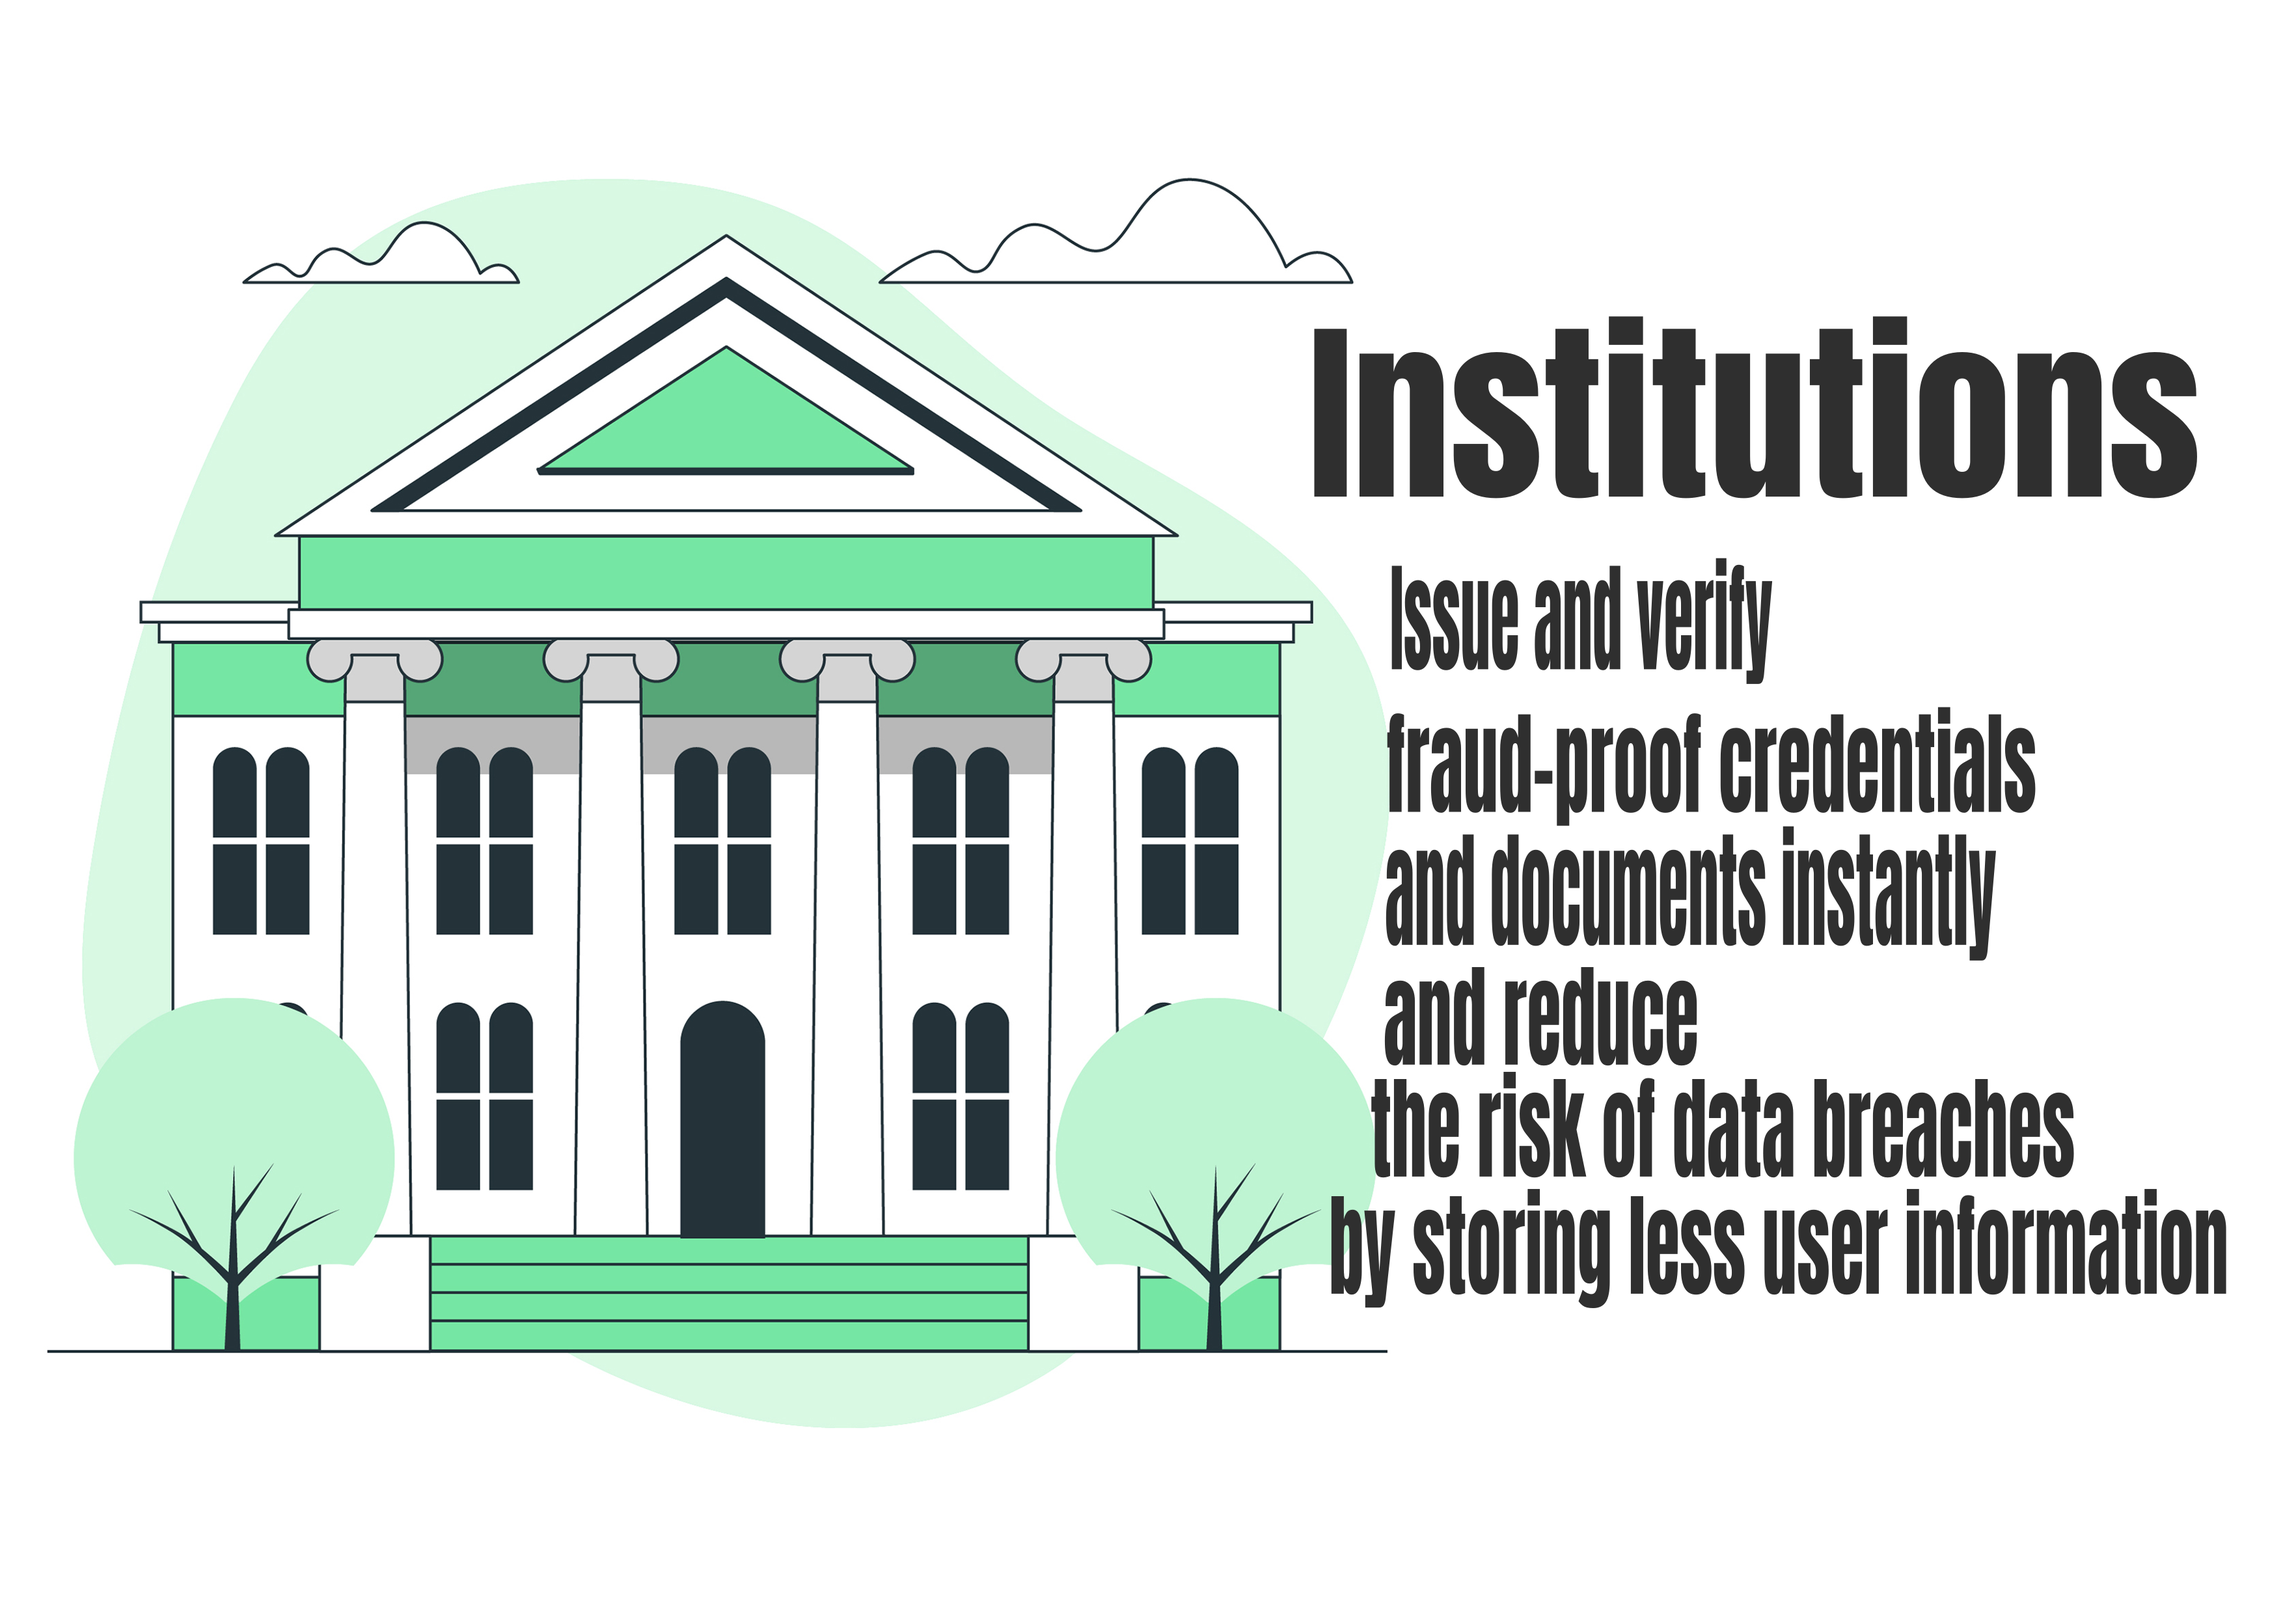
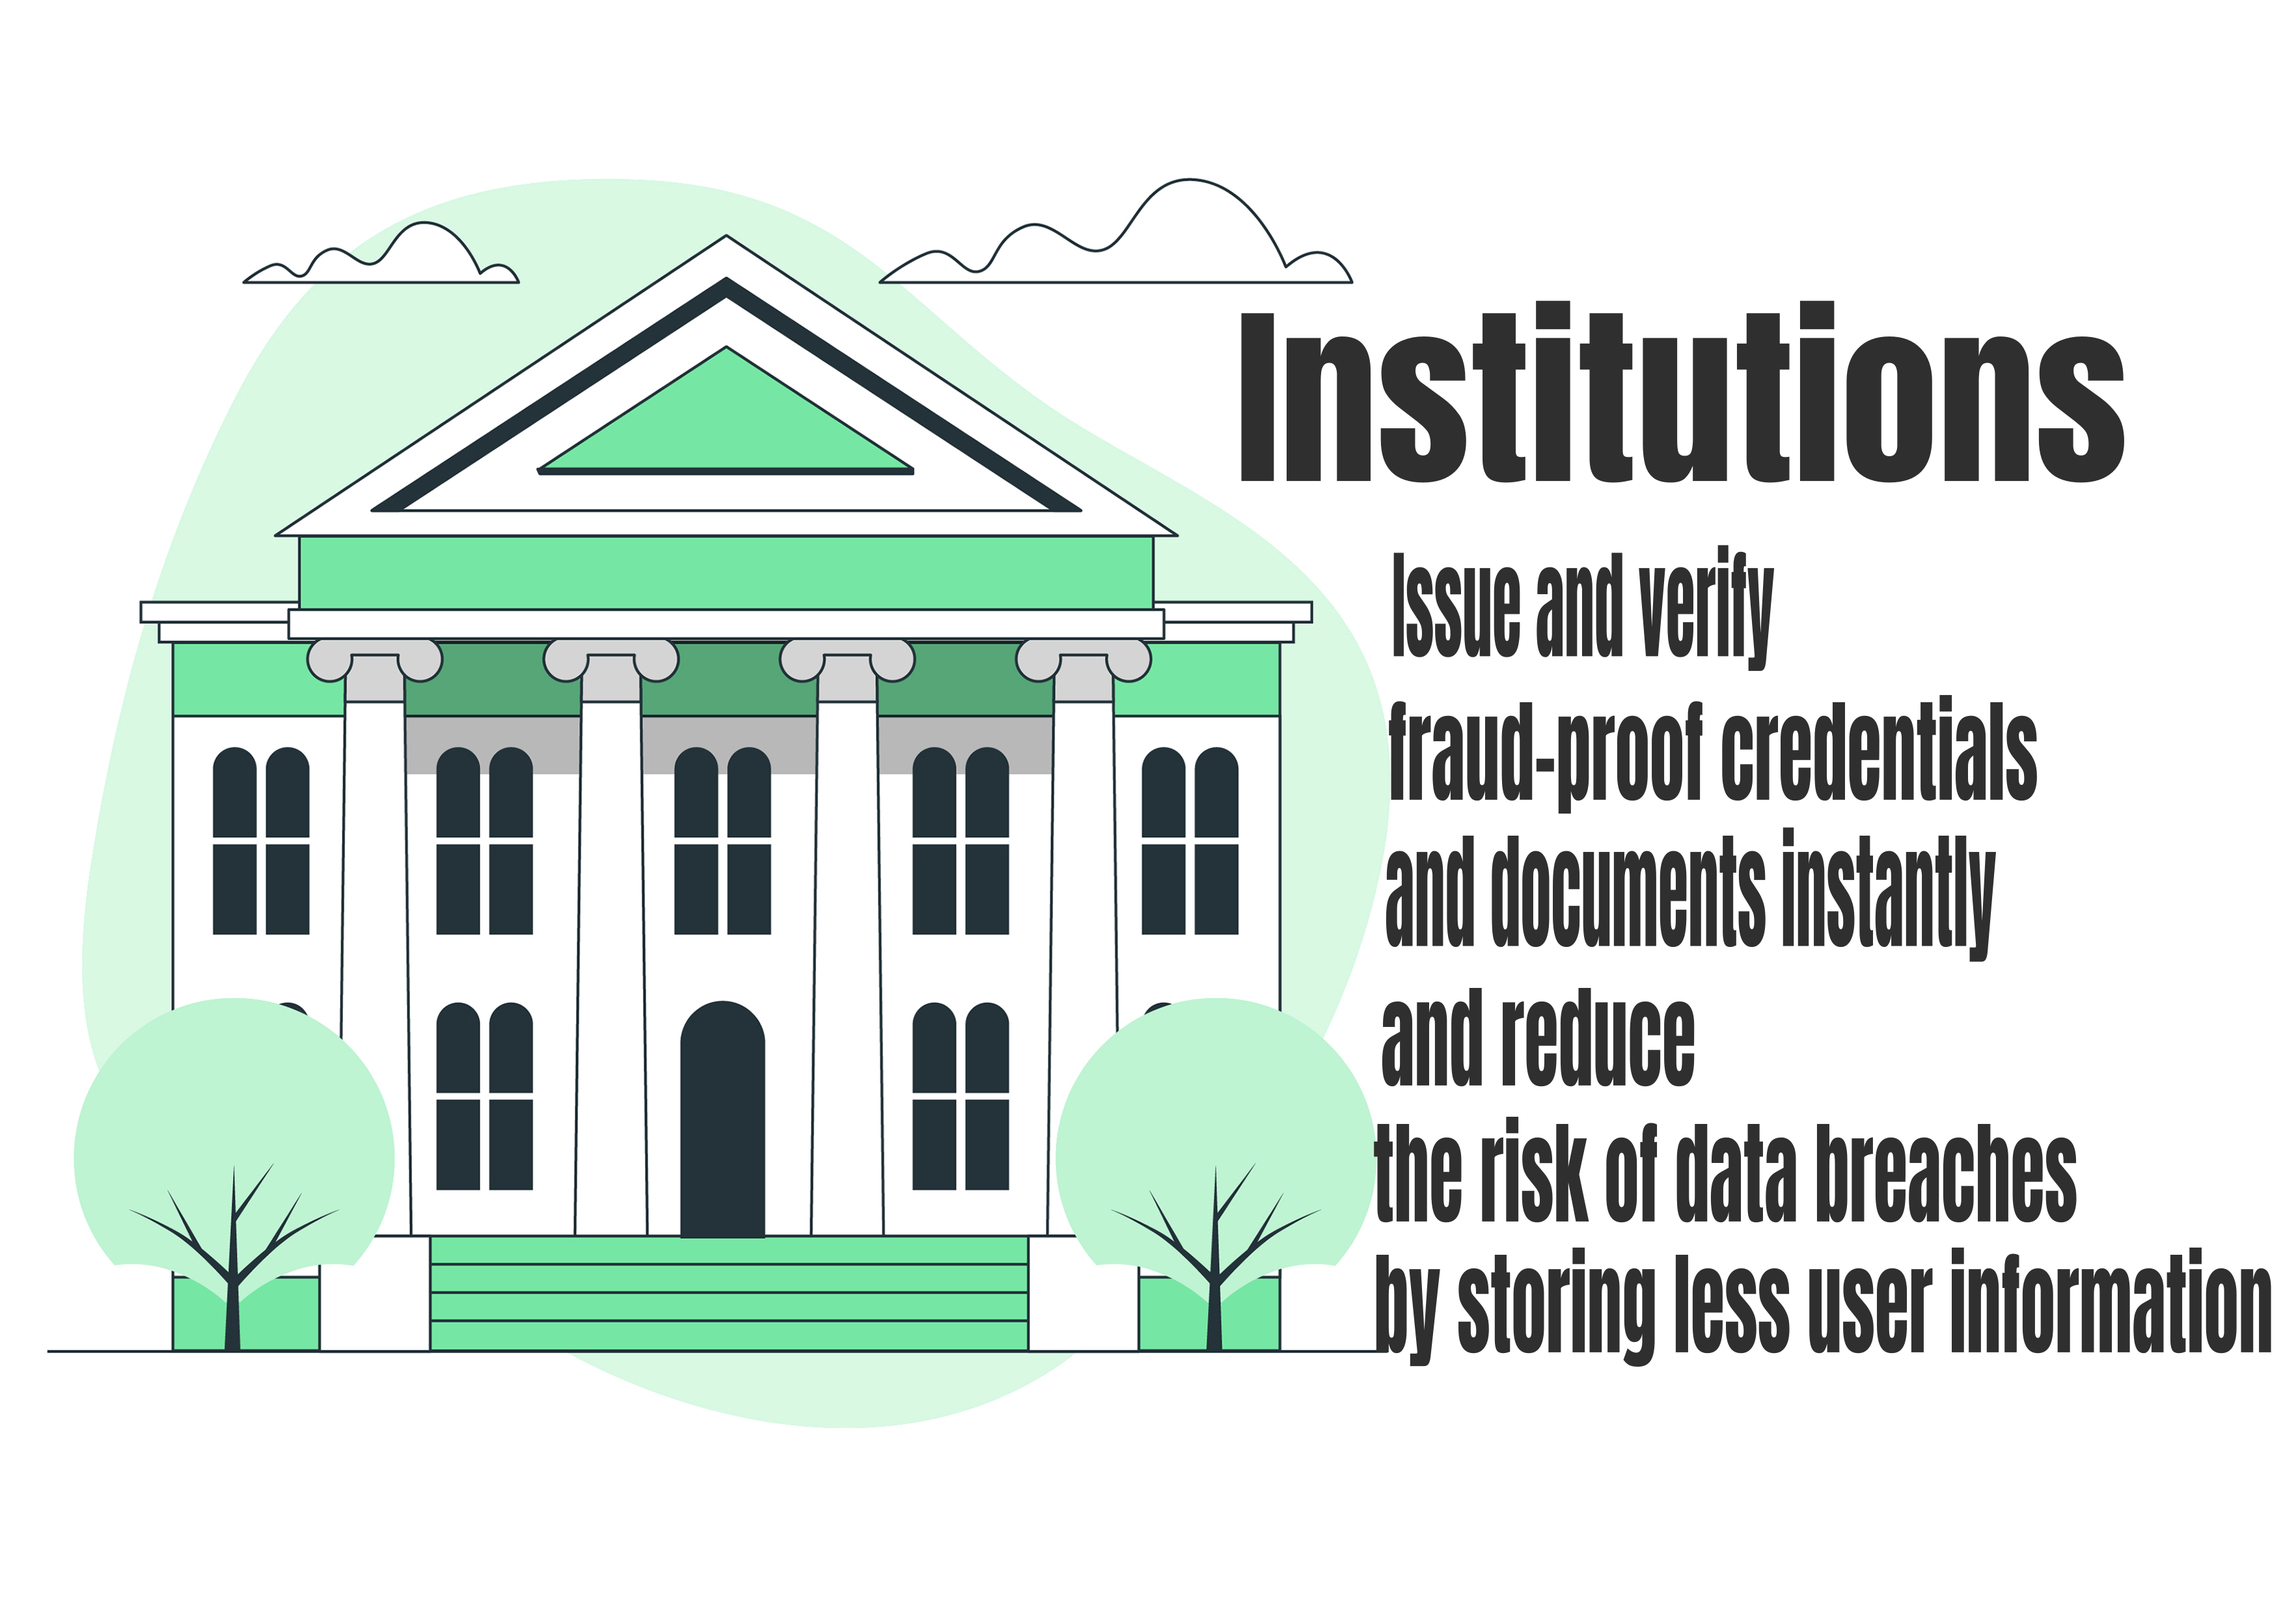
global css modificaciones para celulares

Changed region(s): [[0.5593, 0.5899, 0.9943, 0.8383], [0.5282, 0.1863, 0.9632, 0.3105], [0.5904, 0.3415, 0.9011, 0.5278]]

diff --git a/src/app/globals.css b/src/app/globals.css
@@ -2,8 +2,24 @@
 @tailwind components;
 @tailwind utilities;
 
+/* Agregar las fuentes */
+@font-face {
+  font-family: 'Russo One';
+  src: url('/fonts/RussoOne.ttf') format('truetype');
+  font-weight: normal;
+  font-style: normal;
+}
+
+@font-face {
+  font-family: 'Roboto';
+  src: url('/fonts/RobotoSemibold.ttf') format('truetype');
+  font-weight: 600;
+  font-style: normal;
+}
+
+/* Configuración global */
 body {
-  font-family: 'Inter', sans-serif;
+  font-family: 'Inter', sans-serif; /* Inter es la fuente predeterminada */
 }
 
 body {
